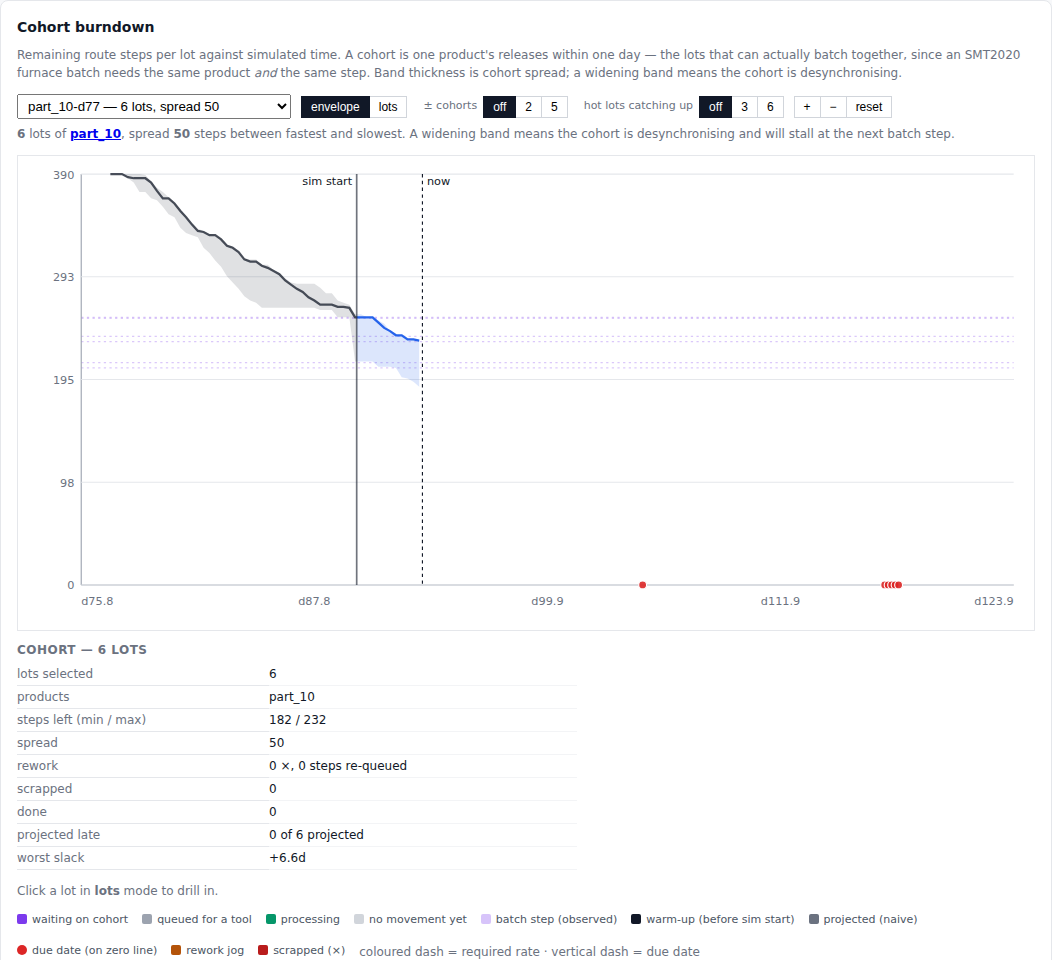
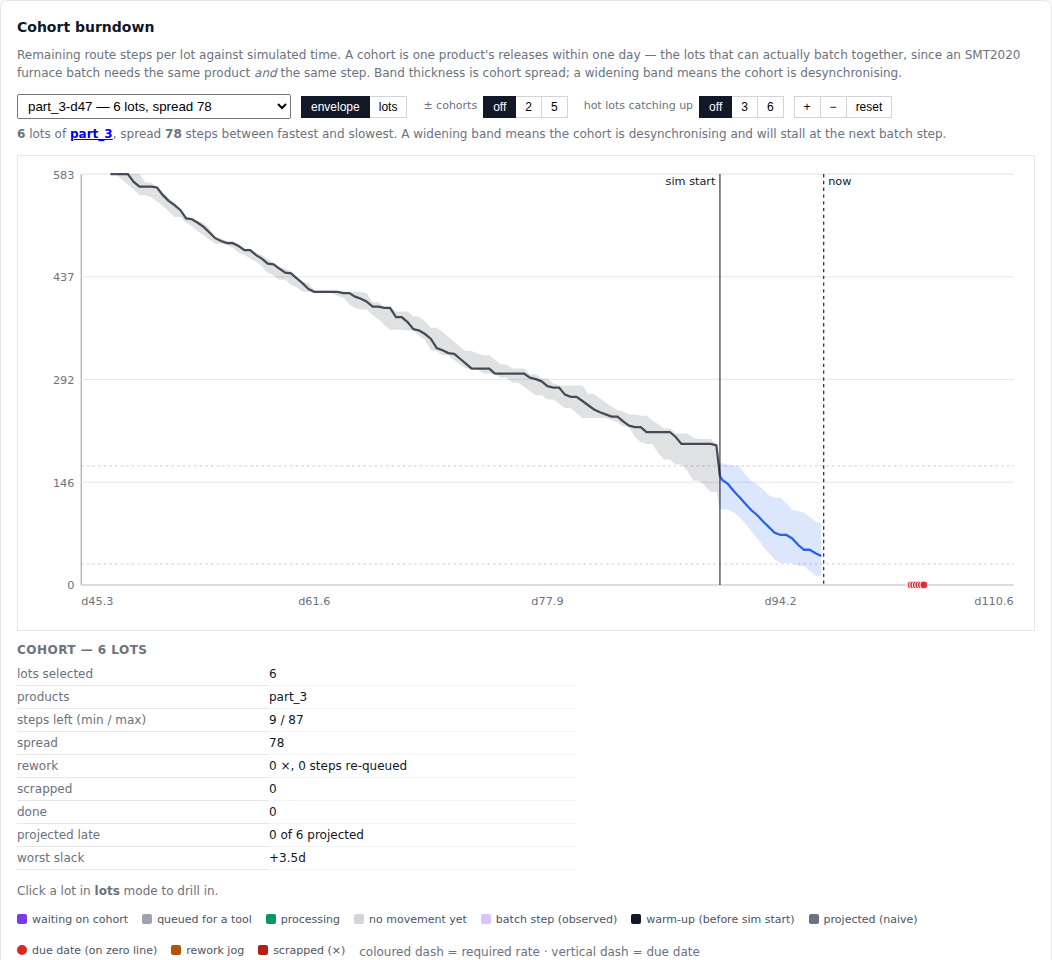
README tour: envelope and per-lot burndown on the same cohort
Claude-Session: https://claude.ai/code/session_013AEQWXnqfUe5GqHVavaMmw

diff --git a/README.md b/README.md
@@ -74,14 +74,16 @@ wired to a model in this checkout.
 ![lots](docs/screenshots/lots.png)
 
 One product's releases from one day, drawn as steps-remaining against
-simulated time — here six `part_10` lots released on day 77, warm-up in
-black, the run under test in blue from the `sim start` rule. A cohort is the
-set of lots that can actually share a furnace batch, so a widening band
-means the cohort is desynchronising and will stall at the next batch step.
-The red dots on the zero line are each lot's due date; a naive projection
-from the product's achieved rate says whether it is in reach (`0 of 6
-projected late`, worst slack +6.6 d). Rework shows as a jog upward. This is
-the lot-level view of what the dispatch rule is doing to a product.
+simulated time — here six `part_3` lots released on day 47 with a 583-step
+route, warm-up in black, the run under test in blue from the `sim start`
+rule. A cohort is the set of lots that can actually share a furnace batch,
+so the band's thickness is the cohort's spread and a widening band means it
+is desynchronising and will stall at the next batch step — this one has
+opened to 78 steps between fastest and slowest. The red dots on the zero
+line are the due dates; a naive projection from the product's achieved rate
+says whether they are in reach (`0 of 6 projected late`, worst slack
++3.5 d). Rework shows as a jog upward. This is the product-level view of
+what the dispatch rule is doing.
 
 ### Lots — one lot at a time
 ![lots-lotview](docs/screenshots/lots-lotview.png)
